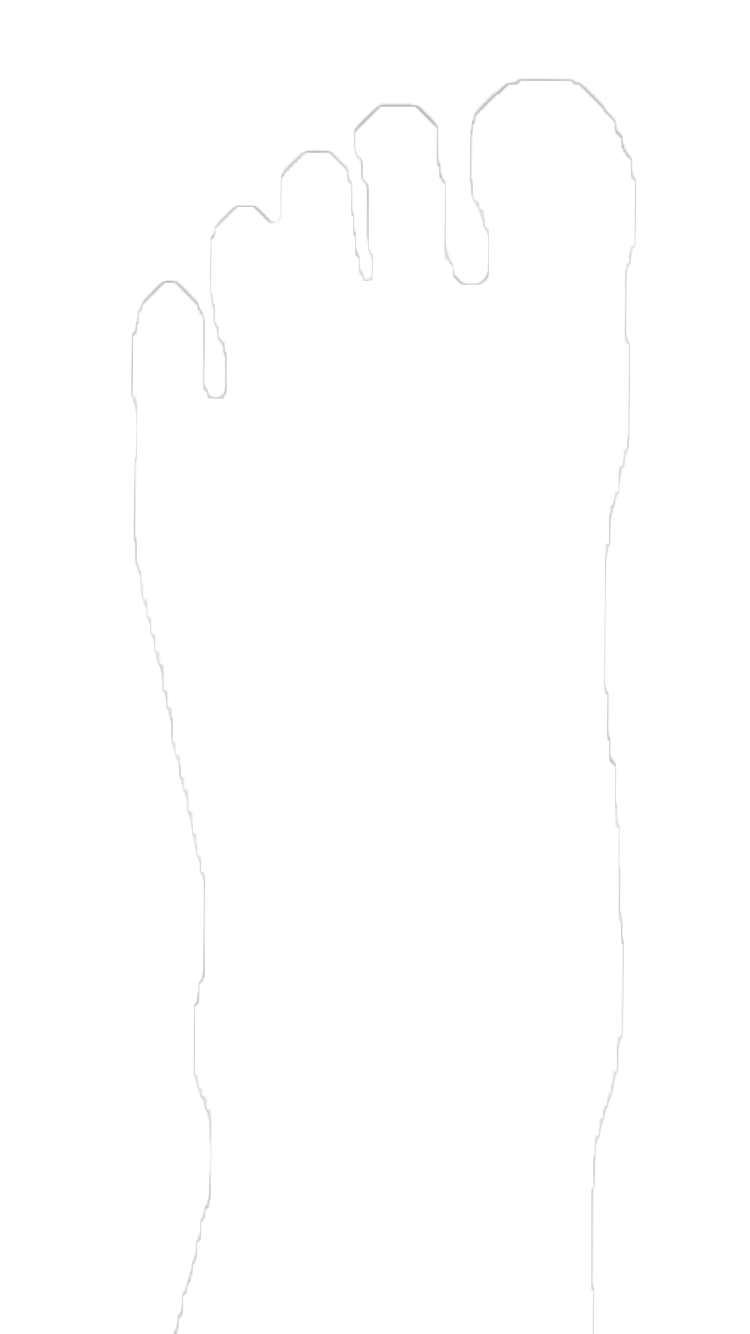
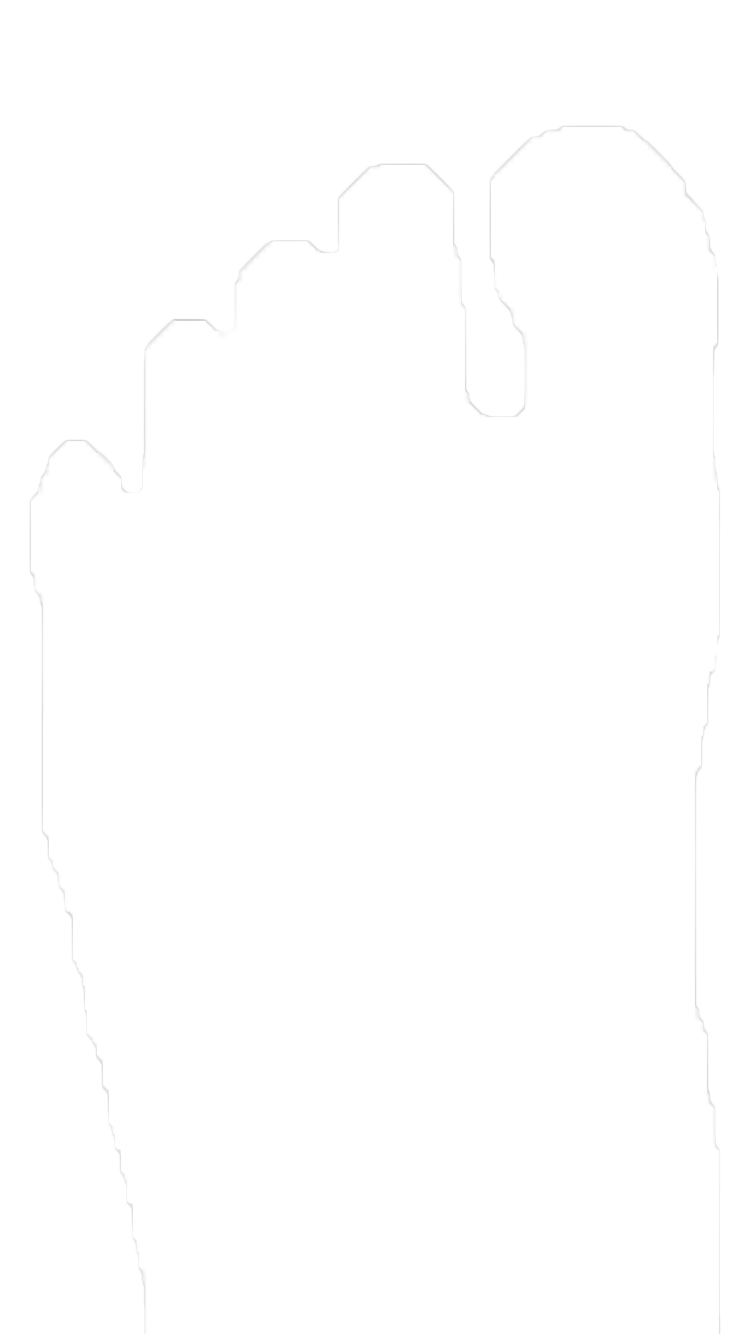
V1.2修改为必须拍四张照片并可额外补充两张照片，并修改左右脚面蒙版。

diff --git a/src/views/zks/index.vue b/src/views/zks/index.vue
@@ -148,6 +148,11 @@
         <el-icon color="#67c23a" size="48px"><SuccessFilled /></el-icon>
         <h3>恭喜！所有照片拍摄完成</h3>
         <p>共 {{ totalPhotos }} 张照片已全部上传</p>
+        <!-- 额外拍摄提示 -->
+        <p v-if="extraPhotosCount > 0 && extraPhotosCount < 2" class="extra-photo-hint">
+          已额外拍摄 {{ extraPhotosCount }} 张，还可再拍 {{ 2 - extraPhotosCount }} 张
+        </p>
+        <p v-if="extraPhotosCount >= 2" class="extra-photo-hint">已完成额外2张照片的拍摄</p>
         <!-- 新增：是否异常选择框 -->
         <div class="abnormal-selection">
           <span class="abnormal-label">拍摄者脚部状态：</span>
@@ -161,7 +166,9 @@
           </el-radio-group>
         </div>
         <div class="completion-actions">
-          <el-button @click="restartCapture">重新拍摄</el-button>
+          <el-button @click="takeExtraPhoto" :disabled="extraPhotosCount >= 2">
+            再拍一张
+          </el-button>
           <el-button type="primary" @click="handleSubmit">全部提交</el-button>
         </div>
       </div>
@@ -299,8 +306,8 @@ const UserInfo = ref({
   RFH: 'exit',
   RF_TWS: 'exit',
   is_abnormal: '',
-  image14: '',
-  image15: '',
+  extraPhotos1: '',
+  extraPhotos2: '',
 })
 
 // 状态管理
@@ -322,6 +329,12 @@ const canvasElement = ref(null)
 const uploadedPhotoUrls = ref([])
 // 默认隐藏，提交时设为true
 const isSubmitting = ref(false)
+
+// 新增：跟踪额外拍摄的照片数量
+const extraPhotosCount = ref(0)
+// 新增：标记是否正在进行额外拍摄
+const isTakingExtraPhoto = ref(false)
+
 // 计算属性
 const totalPhotos = computed(() => photoList.value.length)
 const currentPhotoName = computed(() => photoList.value[currentIndex.value]?.name || '')
@@ -476,76 +489,132 @@ const confirmPhoto = async () => {
     // 从blob URL获取blob对象
     const response = await fetch(previewImageUrl.value)
     const blob = await response.blob()
-    // //console.log('blob', blob)
-    // 将Blob转换为File对象
-    const fileName = `${currentPhotoName.value}_${Date.now()}.jpg`
-    const file = new File([blob], fileName, { type: 'image/jpeg' })
-    // //console.log('file', file)
+    // 判断是否是额外拍摄
+    if (isTakingExtraPhoto.value) {
+      // 额外拍摄的文件命名（区分是第几张额外照片）
+      const fileName = `额外_${extraPhotosCount.value + 1}_${Date.now()}.jpg`
+      const file = new File([blob], fileName, { type: 'image/jpeg' })
 
-    // 上传照片
-    const imageUrl = await mockUploadPhoto(file, currentPhotoName.value)
-    // //console.log('imageUrl', imageUrl.image)
+      // 上传额外拍摄的照片
+      const imageUrl = await mockUploadPhoto(file, `额外照片${extraPhotosCount.value + 1}`)
 
-    // 存储上传成功的链接
-    uploadedPhotoUrls.value.push({
-      name: currentPhotoName.value,
-      url: imageUrl,
-      index: currentIndex.value,
-    })
-    // 1. 获取当前照片的 key（如 LFD、LFP 等）
-    const currentPhotoKey = photoList.value[currentIndex.value].key
-    // 2. 将 imageUrl 赋值给 UserInfo 中对应 key 的字段
-    UserInfo.value[currentPhotoKey] = imageUrl.image
+      // 存储上传记录
+      uploadedPhotoUrls.value.push({
+        name: `额外照片${extraPhotosCount.value + 1}`,
+        url: imageUrl,
+        index: `extra_${extraPhotosCount.value}`,
+      })
 
-    ElMessage.success('照片上传成功！')
+      // 根据计数存储到对应的字段（LFLS/LFRS）
+      if (extraPhotosCount.value === 0) {
+        UserInfo.value.LFLS = imageUrl.image // 第一张额外照片存到LFLS
+      } else {
+        UserInfo.value.LFRS = imageUrl.image // 第二张额外照片存到LFRS
+      }
 
-    // 释放blob URL
-    URL.revokeObjectURL(previewImageUrl.value)
-    previewImageUrl.value = ''
-    showPreviewDialog.value = false
+      // 增加额外拍摄计数
+      extraPhotosCount.value++
 
-    // 移动到下一张或完成
-    if (currentIndex.value < totalPhotos.value - 1) {
-      currentIndex.value++
-      // //console.log('uploadedPhotoUrls-weiwacheng:', uploadedPhotoUrls.value)
+      // 提示成功信息
+      ElMessage.success(`额外照片${extraPhotosCount.value}上传成功！`)
+
+      // 释放资源并关闭预览
+      URL.revokeObjectURL(previewImageUrl.value)
+      previewImageUrl.value = ''
+      showPreviewDialog.value = false
+
+      // 停止相机并返回完成对话框
+      stopCamera()
+      isTakingExtraPhoto.value = false // 重置额外拍摄状态
+      showCompletionDialog.value = true // 重新显示完成对话框
     } else {
-      // 所有照片完成
-      //console.log('所有照片完成')
-      // 暂时关闭摄像头
-      isCameraActive.value = false
-      showCompletionDialog.value = true
-      // //console.log('UserInfo:', UserInfo.value)
+      // 将Blob转换为File对象
+      const fileName = `${currentPhotoName.value}_${Date.now()}.jpg`
+      const file = new File([blob], fileName, { type: 'image/jpeg' })
+      // 上传照片
+      const imageUrl = await mockUploadPhoto(file, currentPhotoName.value)
+      // //console.log('imageUrl', imageUrl.image)
+
+      // 存储上传成功的链接
+      uploadedPhotoUrls.value.push({
+        name: currentPhotoName.value,
+        url: imageUrl,
+        index: currentIndex.value,
+      })
+      // 1. 获取当前照片的 key（如 LFD、LFP 等）
+      const currentPhotoKey = photoList.value[currentIndex.value].key
+      // 2. 将 imageUrl 赋值给 UserInfo 中对应 key 的字段
+      UserInfo.value[currentPhotoKey] = imageUrl.image
+
+      ElMessage.success('照片上传成功！')
+
+      // 释放blob URL
+      URL.revokeObjectURL(previewImageUrl.value)
+      previewImageUrl.value = ''
+      showPreviewDialog.value = false
+
+      // 移动到下一张或完成
+      if (currentIndex.value < totalPhotos.value - 1) {
+        currentIndex.value++
+      } else {
+        // 暂时关闭摄像头
+        isCameraActive.value = false
+        showCompletionDialog.value = true
+      }
     }
   } catch (error) {
     console.error('上传失败:', error)
     ElMessage.error('上传失败，请重试')
   }
-
   isUploading.value = false
 }
 
 // 重新开始拍摄
-const restartCapture = () => {
-  //提示是否确认重新开始
-  ElMessageBox.confirm('是否确认重新开始拍摄？', '提示', {
-    confirmButtonText: '确定',
-    cancelButtonText: '取消',
-    type: 'warning',
-  })
-    .then(() => {
-      // 停止相机
-      stopCamera()
-      // 重置拍摄状态
-      currentIndex.value = 0
-      uploadedPhotoUrls.value = []
-      showCompletionDialog.value = false
-    })
-    .catch(() => {
-      ElMessage({
-        type: 'info',
-        message: '取消操作',
-      })
-    })
+// const restartCapture = () => {
+//   //提示是否确认重新开始
+//   ElMessageBox.confirm('是否确认重新开始拍摄？', '提示', {
+//     confirmButtonText: '确定',
+//     cancelButtonText: '取消',
+//     type: 'warning',
+//   })
+//     .then(() => {
+//       // 停止相机
+//       stopCamera()
+//       // 重置拍摄状态
+//       currentIndex.value = 0
+//       uploadedPhotoUrls.value = []
+//       showCompletionDialog.value = false
+//     })
+//     .catch(() => {
+//       ElMessage({
+//         type: 'info',
+//         message: '取消操作',
+//       })
+//     })
+// }
+
+// 新增：处理额外拍摄功能
+const takeExtraPhoto = async () => {
+  if (extraPhotosCount.value >= 2) {
+    ElMessage.warning('最多只能额外拍摄2张照片')
+    return
+  }
+
+  // 关闭完成对话框
+  showCompletionDialog.value = false
+  // 标记为正在进行额外拍摄
+  isTakingExtraPhoto.value = true
+
+  // 启动相机
+  await startCamera()
+
+  // 如果相机启动成功，自动打开拍摄状态
+  if (isCameraActive.value) {
+    // 可以在这里添加提示，说明正在拍摄的是第几张额外照片
+    ElMessage.info(`正在拍摄第 ${extraPhotosCount.value + 1} 张额外照片`)
+  } else {
+    isTakingExtraPhoto.value = false
+  }
 }
 
 /**
@@ -868,6 +937,12 @@ onBeforeUnmount(() => {
 .abnormal-radio {
   display: flex;
   gap: 24px; /* 两个选项之间的间距 */
+}
+/* 新增：额外拍摄提示样式 */
+.extra-photo-hint {
+  color: #606266;
+  margin: 10px 0;
+  font-size: 14px;
 }
 /* 响应式设计 */
 @media (max-width: 768px) {
